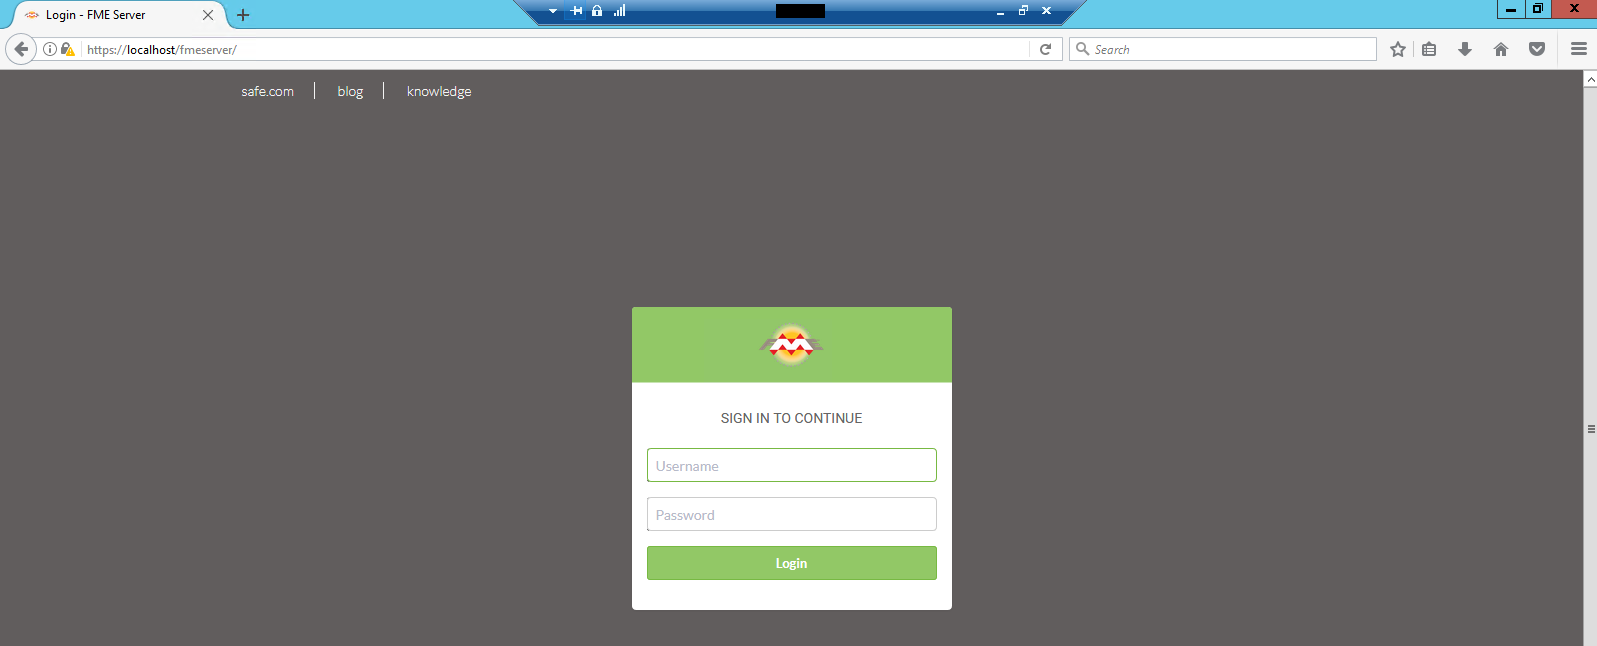
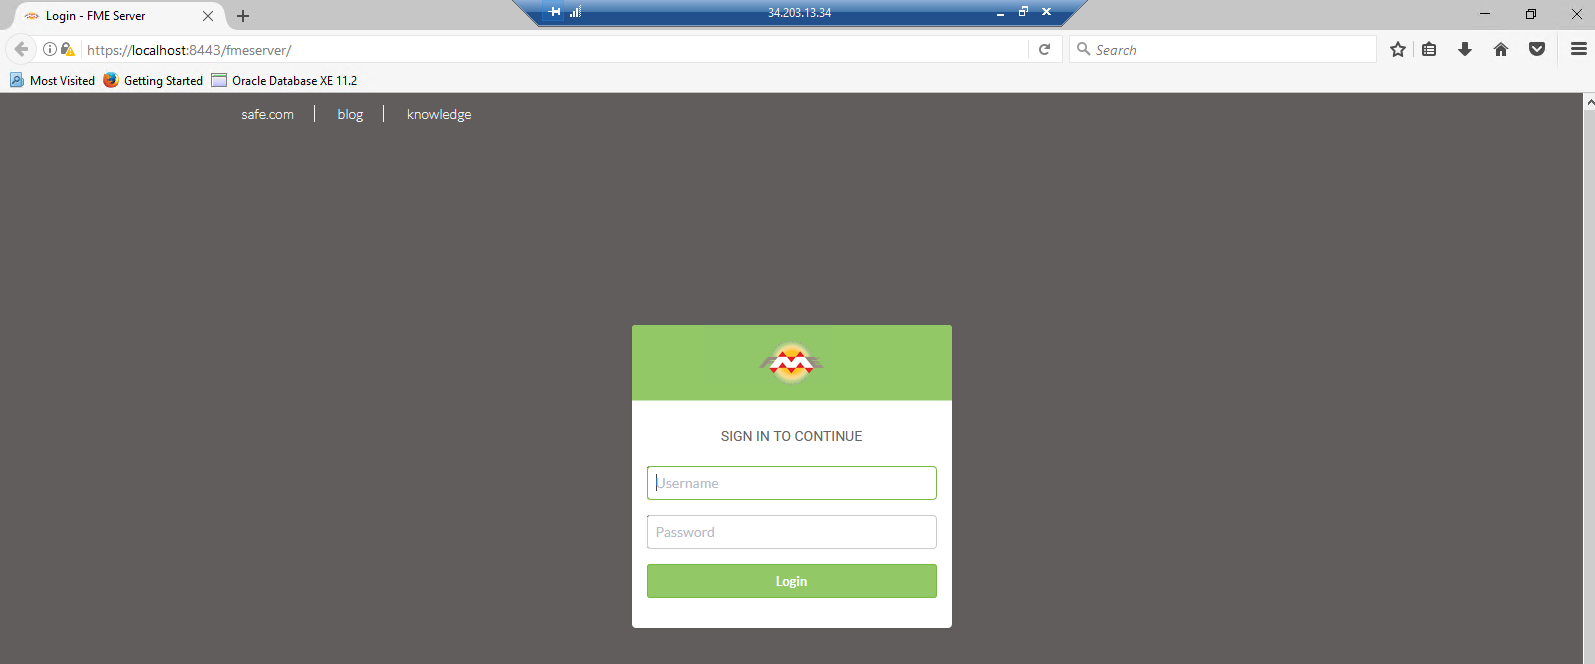
Exercise Edits
made steps clearer
change the file paths from program files to apps in accordance with the
VMs

Changed region(s): [[0.0, 0.0, 1.0, 1.0], [0.3994, 0.4644, 0.6144, 0.8978], [0.5837, 0.7121, 0.6144, 0.743]]

diff --git a/ServerAdmin3Security/Exercise3_ConfiguringForHTTPS.md b/ServerAdmin3Security/Exercise3_ConfiguringForHTTPS.md
@@ -45,11 +45,11 @@ First, you must generate a keystore that contains a certificate chain using the 
 
 Open a command prompt and run as administrator.
 
-Navigate to the Java bin directory (*C:\Program Files\FMEServer\Utilities\jre\bin\\*)
+Navigate to the Java bin directory (*C:\apps\FMEServer\Utilities\jre\bin\\*)
 
 Run the following command to create a new keystone file:
 
-		keytool -genkey -alias tomcat -keyalg RSA -keystore tomcat.keystore
+	keytool -genkey -alias tomcat -keyalg RSA -keystore tomcat.keystore
  
 Set a password for the new keystore and specify the server domain name (for example, *fmeserver.example.org*) as your first and last name.
 
@@ -57,9 +57,9 @@ Enter yes when prompted if inputs are correct.
 
 When prompted for the password for the alias &lt;tomcat&gt;, press RETURN.
 
-A new keystore is created in *C:\Program Files\FMEServer\Utilities\jre\bin\\*.
+A new keystore is created in *C:\apps\FMEServer\Utilities\jre\bin\\*.
 
-Copy the new keystore file to the tomcat directory in the FME Server installation: *C:\Program Files\FMEServer\Utilities\tomcat\\*.
+Copy the new keystore file to the tomcat directory in the FME Server installation: *C:\apps\FMEServer\Utilities\tomcat\\*.
 
 ![](./Images/3.404.ConfigureForHTTPS_createKeytool.png)
 
@@ -68,18 +68,18 @@ Copy the new keystore file to the tomcat directory in the FME Server installatio
 
 **Using a self-signed certificate:**
 
-The new keystore must be imported into the FME Server keystore for trusted certificates with the following command:
+The new keystore must be imported into the FME Server keystore for trusted certificates. In the command prompt, enter the following command:
 
-	keytool -importkeystore -srckeystore tomcat.keystore -destkeystore "C:\Program Files\FMEServer\Utilities\jre\lib\security\cacerts"
+	keytool -importkeystore -srckeystore tomcat.keystore -destkeystore "C:\apps\FMEServer\Utilities\jre\lib\security\cacerts"
 
-You will be prompted to enter two passwords. One for the destination keystore. The password for the destination keystore is **changeit**. And one password for the source keystore. The password for the source keystore is the password that was specified in step 4 above.
+You will be prompted to enter two passwords. One for the destination keystore and one for the source keystore. The password for the destination keystore is **changeit**. The password for the source keystore is the password that was specified in step 1 above.
 
 ![](./Images/3.405.ConfigureForHTTPS_selfSignedCertificate.png)
 
 <br><br>
 **Configure Tomcat** 
 
-In the next steps, we modify three configuration files of Apache Tomcat. All three files are located in the FME Server installation directory: *C:\Program Files\FMEServer\Utilities\tomcat\conf\\* .
+In the next steps, we modify three configuration files of Apache Tomcat. All three files are located in the FME Server installation directory: *C:\apps\FMEServer\Utilities\tomcat\conf\\* .
 
 It is a good idea to make copies of any files you will be changing and hold them in a separate directory until you have verified that the edits are working successfully.
 
@@ -111,7 +111,7 @@ Locate the *&lt;Connector&gt;* element that contains *protocol="org.apache.coyot
 		<Connector port="80" protocol="HTTP/1.1"
 		redirectPort="8443"/>
 		
-Make sure to exchange *&lt;FMEServerDir&gt;* and *&lt;your_password&gt;* with the install directory of FME Server and the password of the keystore that was specified in step 4.
+Make sure to exchange *&lt;FMEServerDir&gt;* and *&lt;your_password&gt;* with the install directory of FME Server and the password of the keystore that was specified in step 1.
 
 Save and close the *server.xml* file.
 
@@ -164,7 +164,7 @@ For self-signed certificates, click the **Advanced** button and add an exception
 
 **7) Modify Service URLs to Use HTTPS** 
 
-To enable SSL for a service, open the FME Server Web User Interface, and select *Services*. 
+To enable SSL for a service, login to the FME Server Web User Interface (username and password *admin*), and select *Services* on the left hand side table of contents. 
 
 ![](./Images/3.407.ServicesButton.png)
 
